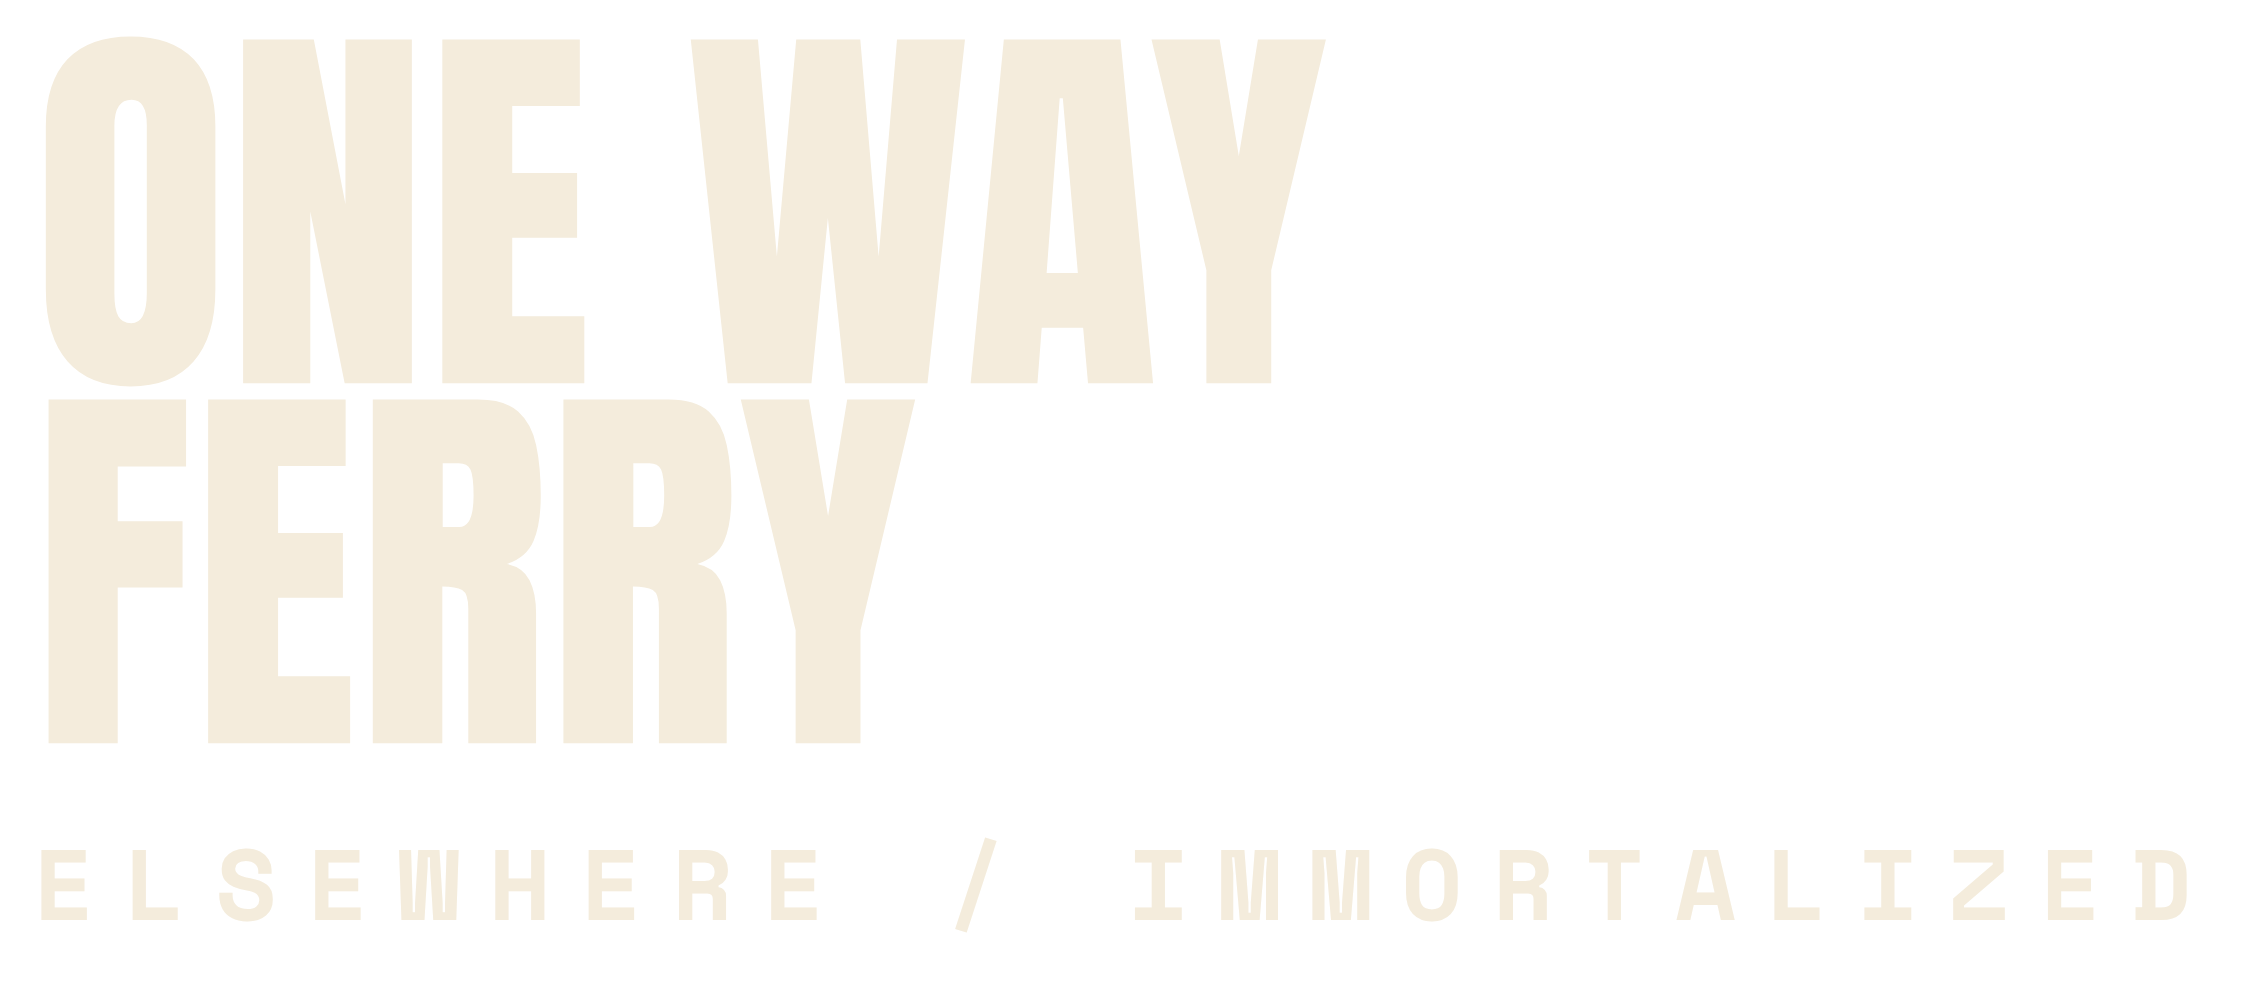
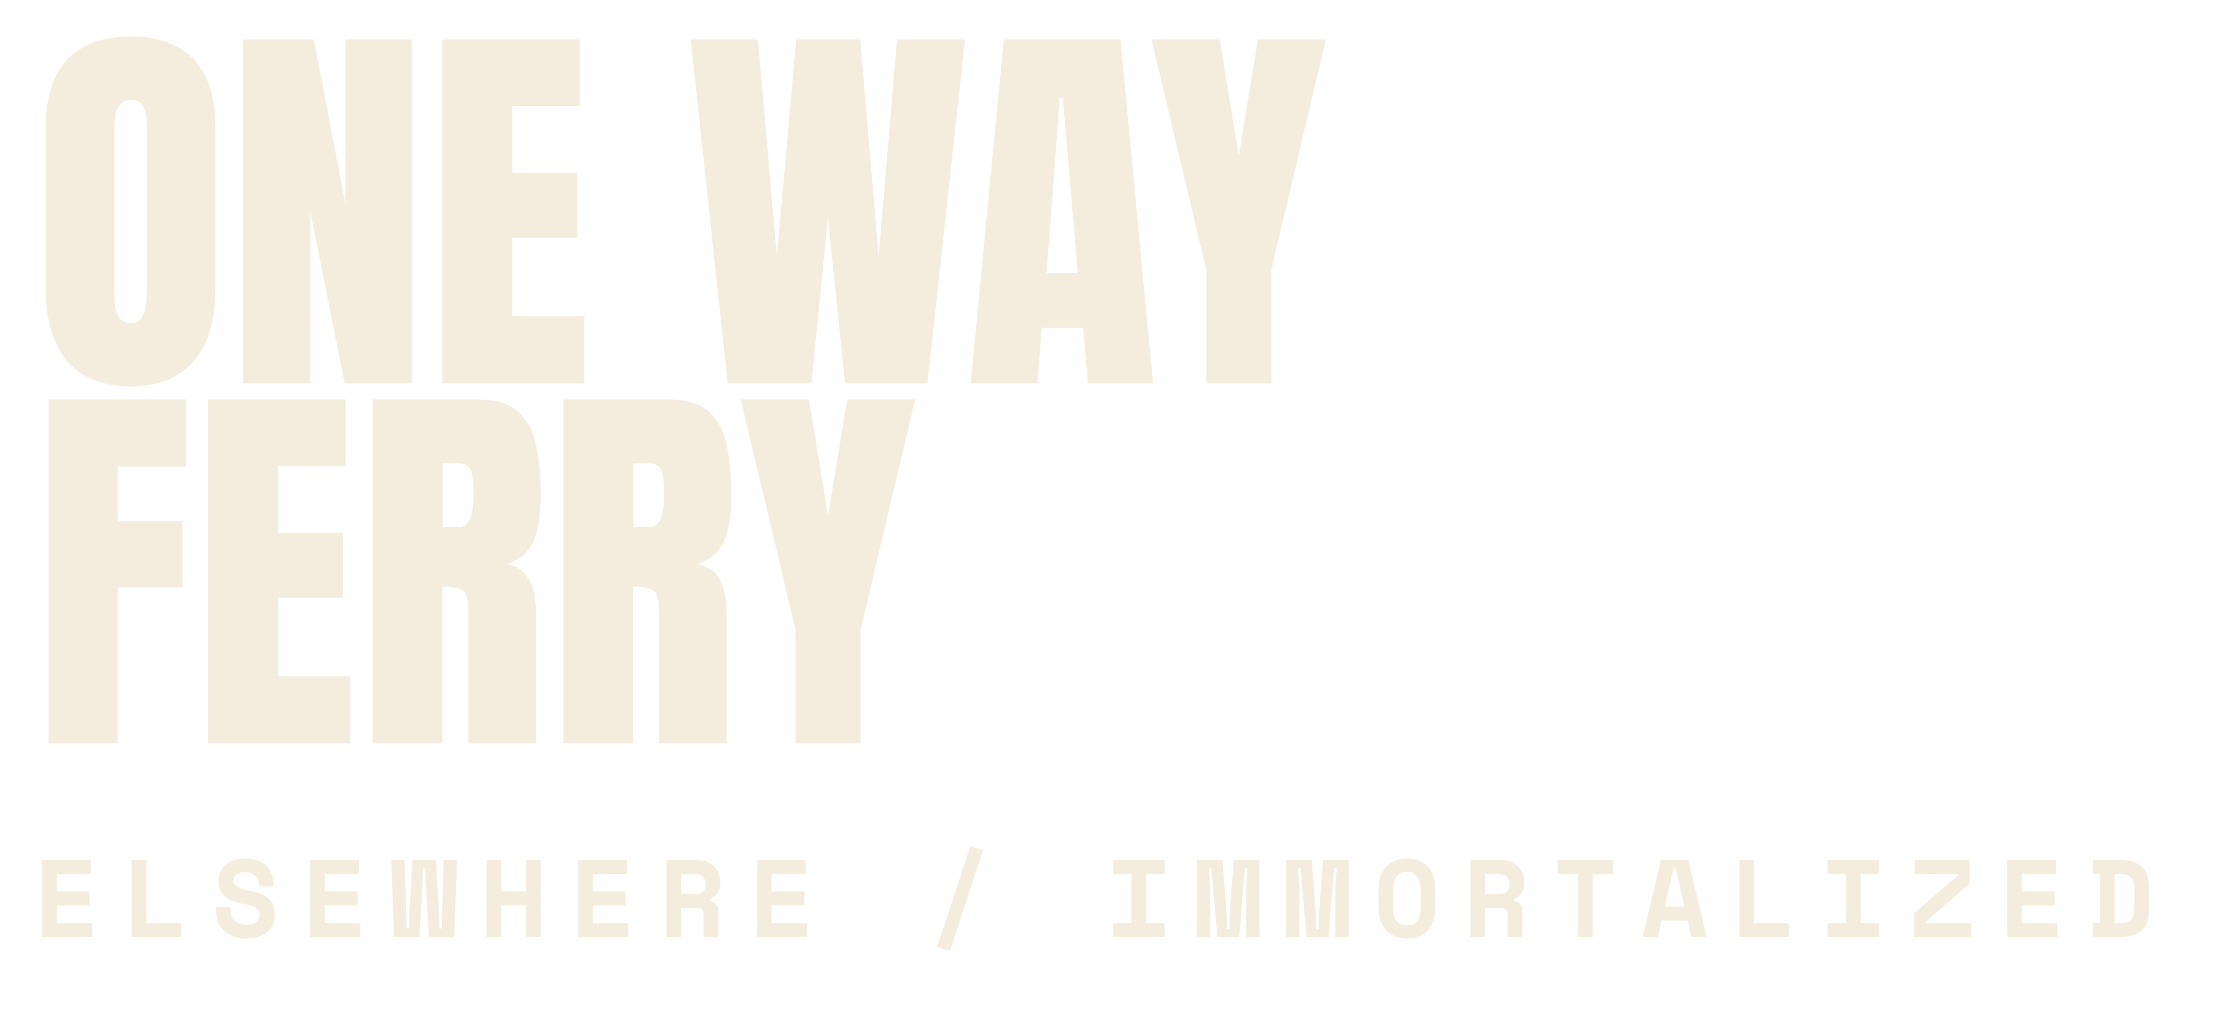
Immortalized prints: larger, bolder Elsewhere Apparel Co. footer
Claude-Session: https://claude.ai/code/session_01T2BjBwV7d2vTxpMeBzrFvG

diff --git a/designs/src/render_drop4.js b/designs/src/render_drop4.js
@@ -42,12 +42,14 @@ function back(name, title, line) {
     .frame img{display:block;width:100%}
     .title{font-family:'Anton';font-size:150px;line-height:1;text-transform:uppercase;letter-spacing:.01em;
       white-space:nowrap;margin-top:22px;text-align:center}
-    .row{display:flex;justify-content:space-between;gap:30px;margin-top:14px;padding-top:14px;border-top:3px solid #f4ecdc;white-space:nowrap}
-    .line{font:700 24px 'Space Mono'}
+    .row{margin-top:16px;padding-top:18px;border-top:4px solid #f4ecdc;text-align:center;white-space:nowrap}
+    /* Sized to stay legible on the garment and in product photos (about 2x the original 22-24px). */
+    .row .label{font:700 44px 'Space Mono';letter-spacing:.16em;margin-right:-.16em;color:#fff}
+    .line{font:700 36px 'Space Mono';margin-top:10px;color:#f4ecdc}
   </style></head><body><div id="art">
     <div class="frame"><img src="${img}"></div>
     <div class="title">${title}</div>
-    <div class="row"><div class="label">Elsewhere Apparel Co. / Immortalized</div><div class="line">${line}</div></div>
+    <div class="row"><div class="label">Elsewhere Apparel Co. · Immortalized</div><div class="line">${line}</div></div>
   </div></body></html>`;
 }
 
@@ -55,7 +57,7 @@ function front(lines) {
   return `<!doctype html><html><head><style>${css}
     #art{display:inline-block;padding:10px;text-align:left}
     .t{font-family:'Anton';font-size:120px;line-height:.9;text-transform:uppercase;white-space:nowrap}
-    .label{font-size:30px;margin-top:16px}
+    .label{font-size:33px;letter-spacing:.2em;margin-top:18px}
   </style></head><body><div id="art"><div class="t">${lines.join('<br>')}</div>
     <div class="label">Elsewhere / Immortalized</div></div></body></html>`;
 }
